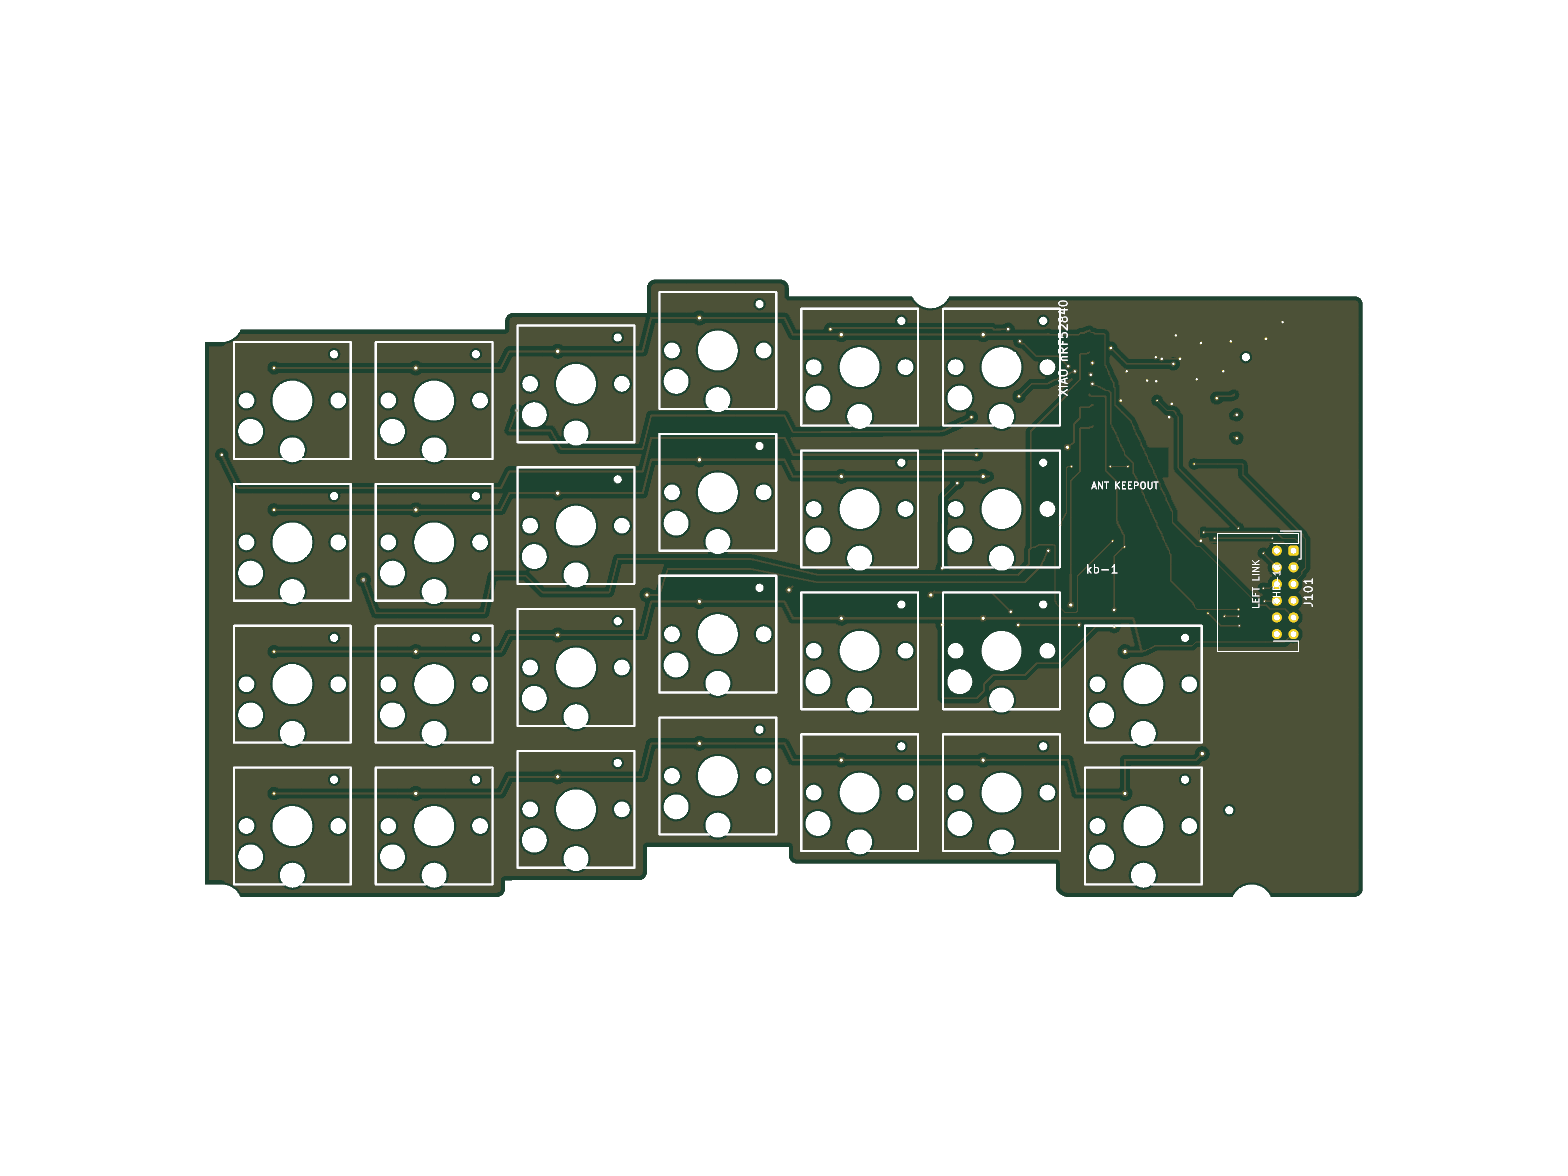
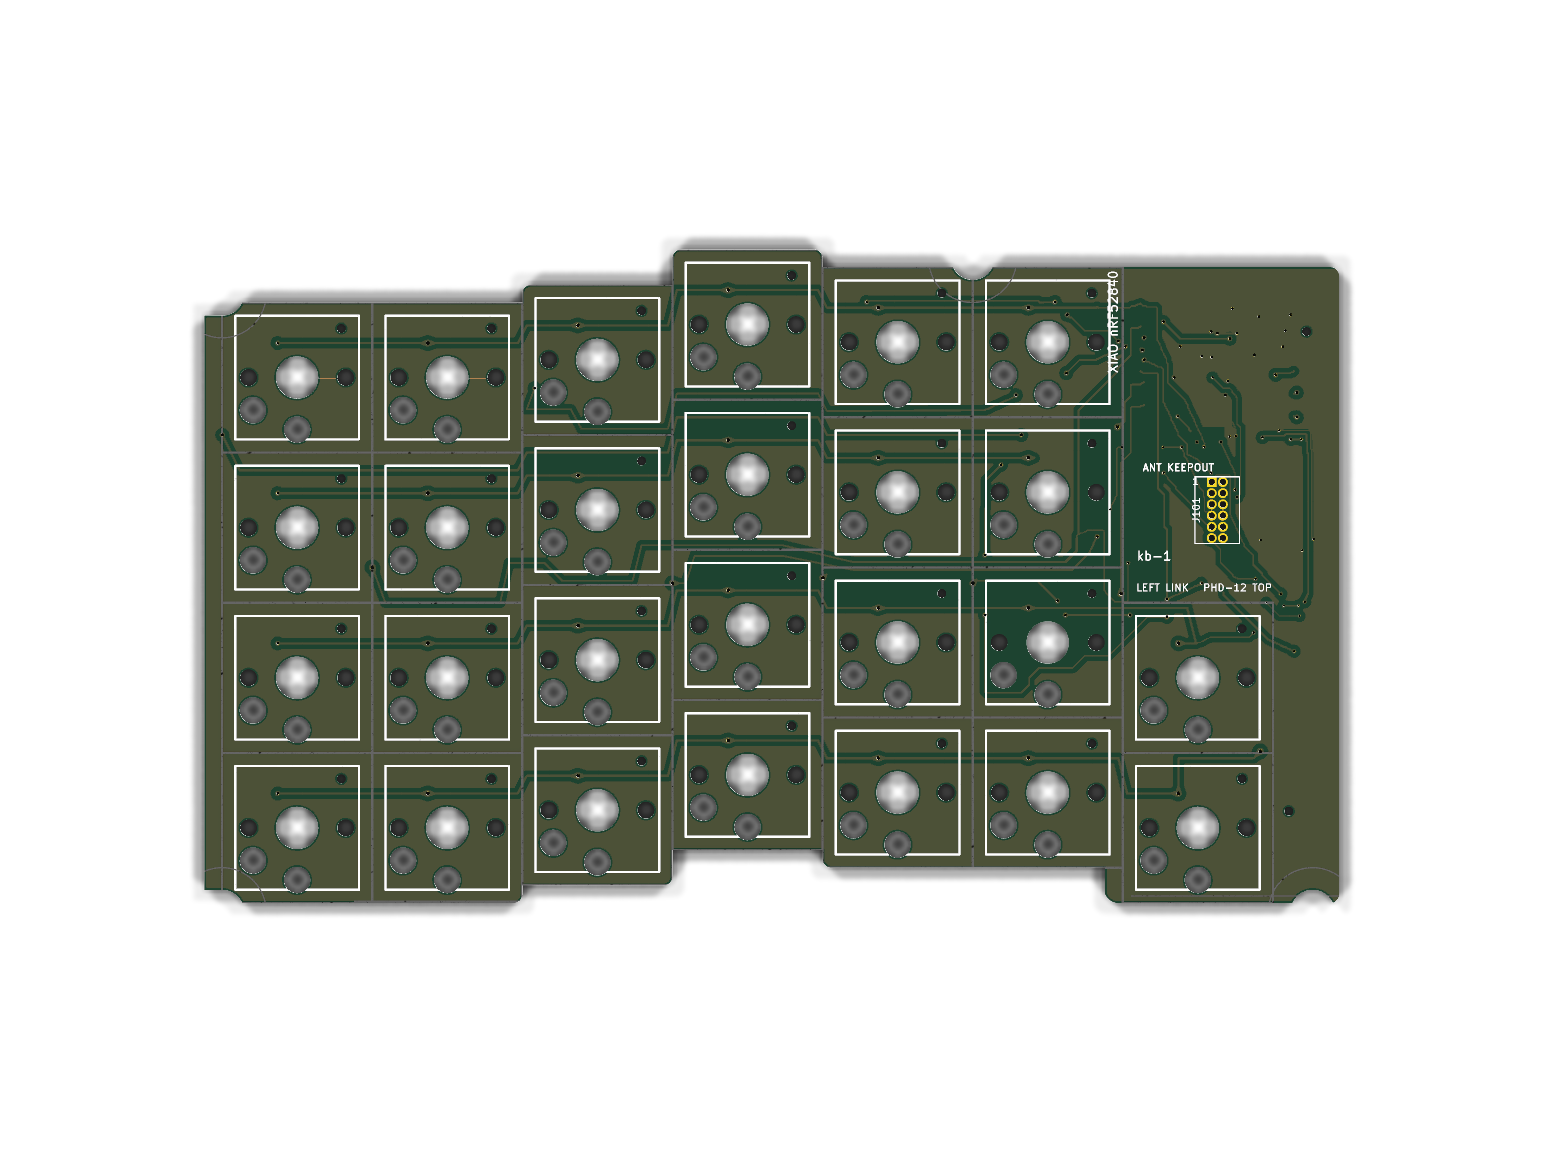
Update README for wired split connection

Changed region(s): [[0.1244, 0.1875, 0.9016, 0.8125]]

diff --git a/README.md b/README.md
@@ -1,10 +1,10 @@
 # kb-1
 
-kb-1は、19mmトラックボールを搭載した無線分割キーボードです。
+kb-1は、19mmトラックボールを搭載した左右分割キーボードです。
 
 コンパクトな17mmピッチのカラムスタッカード配列を採用し、左右合わせて48キーを搭載しています。
 トラックボールの高さを低く抑えることで、キーを打つときや持ち運びの邪魔になりにくくしています。
-コントローラーにはSeeed Studio XIAO nRF52840 Plusを採用しています。XIAOは右側だけに搭載し、右側USB-Cから給電します。左右は12芯Samtec FFSDケーブルで接続し、PCとはBluetoothで通信します。
+コントローラーにはSeeed Studio XIAO nRF52840 Plusを採用しています。XIAOは右側だけに搭載し、左右間はJST PHDシリーズの12極コネクタ（PHDR-12VS）を使用したケーブルで接続します。PCとはBluetoothで通信しますが、動作中は右側USB-Cから常に給電する必要があります。
 
 | 左側PCB | 右側PCB |
 | --- | --- |
@@ -17,9 +17,10 @@ kb-1は、19mmトラックボールを搭載した無線分割キーボードで
 * 17mmピッチのカラムスタッカード配列
   * 左26キー、右22キーの48キー構成です。
 * USB-C給電・Bluetooth接続
-  * 右側XIAOへモバイルバッテリーまたはUSB電源から給電します。
+  * PCとの通信にはBluetoothを使用します。
+  * 使用中は右側XIAOへモバイルバッテリーまたはUSB電源から常に給電する必要があります。
   * 電源スイッチはなく、USB-Cケーブルの接続／取り外しで電源を操作します。
-  * 左右間は12芯Samtec FFSDケーブルで接続します。
+  * 左右間は、両端にJST PHDシリーズの12極圧着ソケットハウジング「PHDR-12VS」を使用したケーブルで接続します。
 * Seeed Studio XIAO nRF52840 Plusを採用
   * XIAOは右側だけに搭載し、左側はスイッチとダイオードのみの受動基板です。
 * トラックボールの設置位置が調整可能
@@ -31,13 +32,13 @@ kb-1は、19mmトラックボールを搭載した無線分割キーボードで
 ## 使用上の注意
 
 * 異臭や煙が出たときは、ただちにUSB-C電源を外して使用を中止してください。
-* 左右のFFSDケーブルは、電源を外した状態で抜き差ししてください。
+* 左右を接続するPHDケーブルは、USB-C電源を外した状態で抜き差ししてください。
 * USB-C電源とケーブルは、破損や発熱のない適合品を使用してください。
 
 ## 設計データについて
 
 本リポジトリでは、kb-1の基板設計データと19mmトラックボールケースの設計データを公開しています。
 
-トラックボールケースは従来版から変更していません。左右上面のFFSDコネクタと右側USB-Cへアクセスできる本体ケースは、今回のPCB外形に合わせた確認が必要です。
+トラックボールケースは従来版から変更していません。左右上面のJST PHDコネクタと右側USB-Cへアクセスできる本体ケースは、今回のPCB外形に合わせた確認が必要です。
 
 ライセンスにしたがって自由に利用していただいて構いませんが、問い合わせには対応しません。
